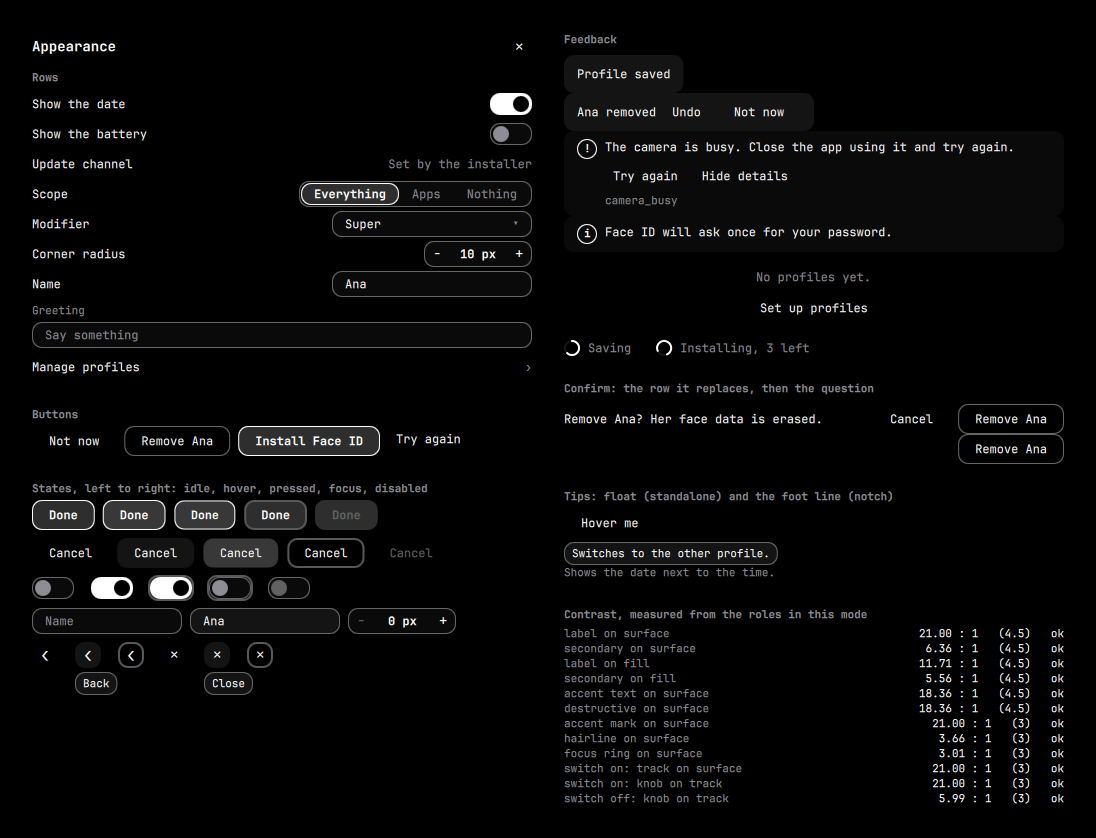
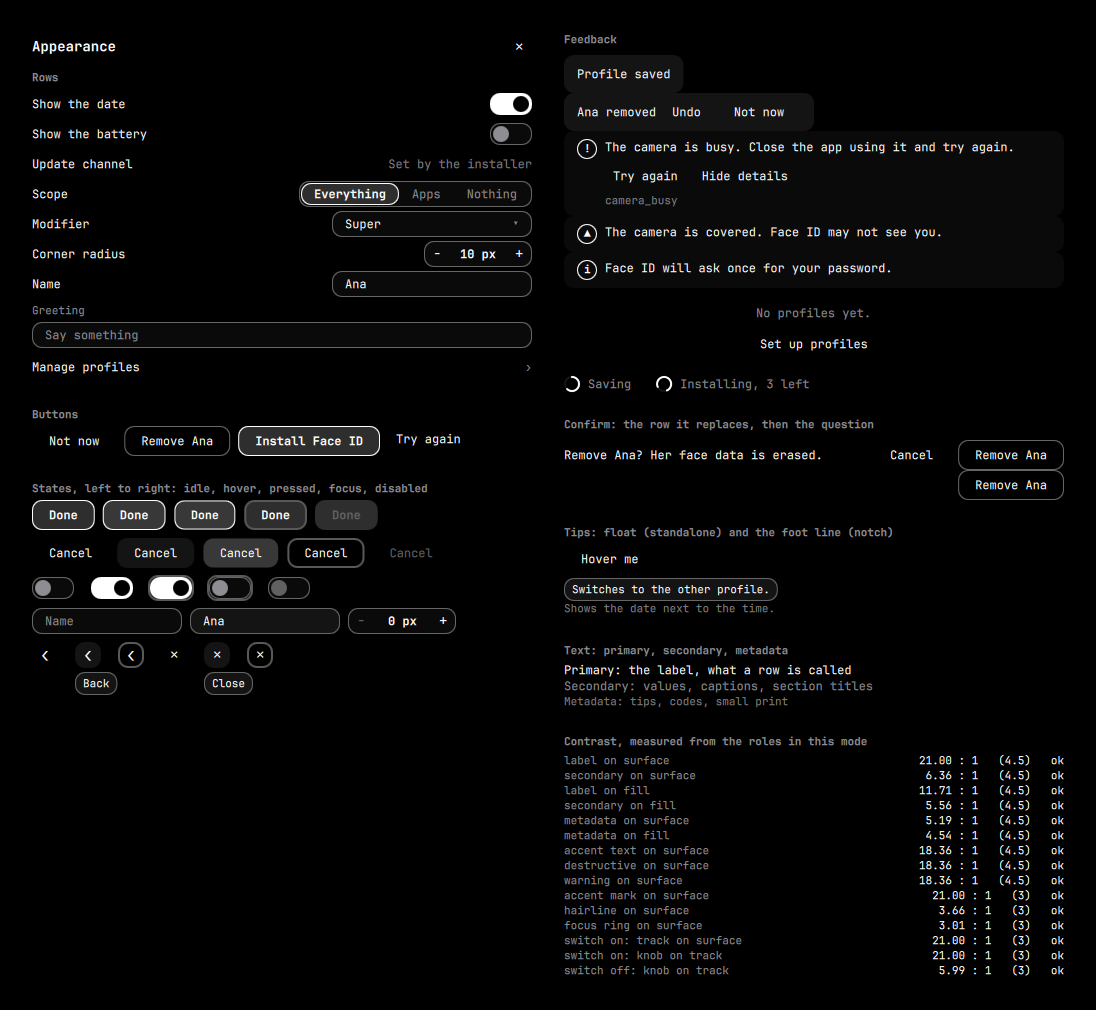
Regenerate docs/gallery and describe the spacing scale, text levels and warning
standalone.png is rendered under the current Omarchy theme, so it differs from
the committed one by more than these changes.

diff --git a/README.md b/README.md
@@ -42,7 +42,7 @@ Item {                                   // the plugin's root
 | **hosted-opaque** | `host` set, `host.styled` not true (surface contract 1) | only what the notch hands over (`color`, `foreground`, `secondary`, `accent`), every colour a computed **solid**: never a translucent item, gradient or blur |
 | **styled** | `host.styled === true` (contract 2) | the kit's own roles and alpha fills over the host's surface; when the notch's guard falls back, `styled` goes false and the same bindings give hosted-opaque by themselves |
 
-`host` is any `surfaceHost`-shaped object (`color`, `foreground`, `secondary`, `accent`, `radiusFor(size)`, `fontFamily`, optionally `styled`, `reducedMotion`). Density follows: **notch** rows are 30 px with 12 px body, **standalone** 32 px with 13.
+`host` is any `surfaceHost`-shaped object (`color`, `foreground`, `secondary`, `accent`, `radiusFor(size)`, `fontFamily`, optionally `styled`, `reducedMotion`). Density follows: **notch** rows are 30 px with 12 px body, **standalone** 32 px with 13; both use the one spacing scale below.
 
 ![hosted, black](docs/gallery/hosted-black.png)
 
@@ -58,7 +58,7 @@ Item {                                   // the plugin's root
 | Field | `UField` (Enter commits, Esc reverts), `UStepper` (`-` / `+`, Left / Right) | |
 | Row, section | `URow` (`row` and `stacked`, a `trailing` slot), `USection` | |
 | Tip | `UTip` | `float` (a box) or `foot` (one reserved line, no box) |
-| Toast, error | `UToast`, `UNotice` | a code never reaches the surface; unknown codes read "Something went wrong." |
+| Toast, notice | `UToast`, `UNotice` | `UNotice` has three tones: `info` (`i`), `warning` (`▲`) and `error` (`!`, the old `warn`), each a glyph and a spoken word as well as a colour; `UToast` has no tones. A code never reaches the surface; unknown codes read "Something went wrong." |
 | Empty, progress | `UEmpty`, `URing` | the ring is determinate or indeterminate, and holds still under reduced motion |
 | Confirm | `UConfirmSheet` | an inline row that replaces the action row, never an overlay |
 | Keys | `UKeys`, `keys.js` | Esc closes, in order: an edit, a tip, an open pick, a modal, then goes back, then closes |
@@ -68,7 +68,11 @@ Item {                                   // the plugin's root
 
 **Dismiss words** are three: **Cancel** (abandon), **Done** (finish), **Not now** (defer). "Close", "Keep", "Later", "Dismiss", "OK" and "Okay" are out. Action verbs are an open set and are not dismiss words ("Remove Ana", "Install Face ID"), plus the named recoveries "Try again" and "Undo".
 
-**Colour.** Text is held to 4.5:1 and every mark (a border, ring, track, knob or arc, each declaring `uiMark: true`) to 3:1, in every mode, on every host: `tokens.js` repairs what it is handed with `lift` (the host's `lift` of `plan-surface-v2.md`, same vectors) and caps each fill so the text on it keeps its floor. Hairlines and the focus ring are raised to 3:1 (a 25 % ring is about 1.6:1 on black). `contrast` is the one WCAG body that `Bar.qml` in omarchy-notch has; the test compares them. Destructive is red only where the panel owns its colours.
+**Colour.** Text is held to 4.5:1 and every mark (a border, ring, track, knob or arc, each declaring `uiMark: true`) to 3:1, in every mode, on every host: `tokens.js` repairs what it is handed with `lift` (the host's `lift` of `plan-surface-v2.md`, same vectors) and caps each fill so the text on it keeps its floor. Hairlines and the focus ring are raised to 3:1 (a 25 % ring is about 1.6:1 on black). The **warning** role (`theme.warning`, amber) is worked out like the others and held to 4.5:1 on the surface, hover and fill; it is amber only where the panel owns its colours (standalone, styled, or a host that hands one over), and the label in hosted-opaque, as for destructive, so the glyph and the word carry it there. `contrast` is the one WCAG body that `Bar.qml` in omarchy-notch has; the test compares them. Destructive is red only where the panel owns its colours.
+
+**Spacing.** One named scale for both densities: `theme.sp.xs` 4, `sm` 8, `md` 12, `lg` 16, `xl` 24, `xxl` 32 (`tokens.js` `SPACING`), each through `theme.space()` so it follows the user's spacing scale. Margins, gaps and insets use the names; `space(n)` stays for a value that is not on the scale. Density changes the row height only (30 notch, 32 standalone); there are no other fixed heights.
+
+**Text.** Three levels in the one monospace face. *Primary* is `theme.label` (headlines are `headlineWeight`). *Secondary* is `theme.secondary`: values, captions, section titles. *Metadata* is `theme.metadata` with `metadataWeight` (Light): tips on the foot line, codes under Details, small print (`URow.valueQuiet`). `metadata` is secondary eased toward the surface and lifted to the same 4.5:1 on the surface and every fill, so it is never louder than secondary, but on a theme whose secondary already sits near 4.5:1 the colour step is small and the weight carries the difference. A face with no Light weight shows Regular. `MIN_TEXT` (11 px) still holds for all three.
 
 **Motion.** `arrive` 0.72 / 0.6 / 350 ms (anything that grows; 3.8 % overshoot), `control` 0.85 / 0.55 / 200 ms, `celebrate` 0.60 / 450 ms (one use), `exit` OutCubic 180 ms, `fade` out 90 / in 150, `press` scale 0.97 over 60 ms, `stagger` 40 ms capped at 240. Springs only for what arrives; never on a colour or an opacity.
 
